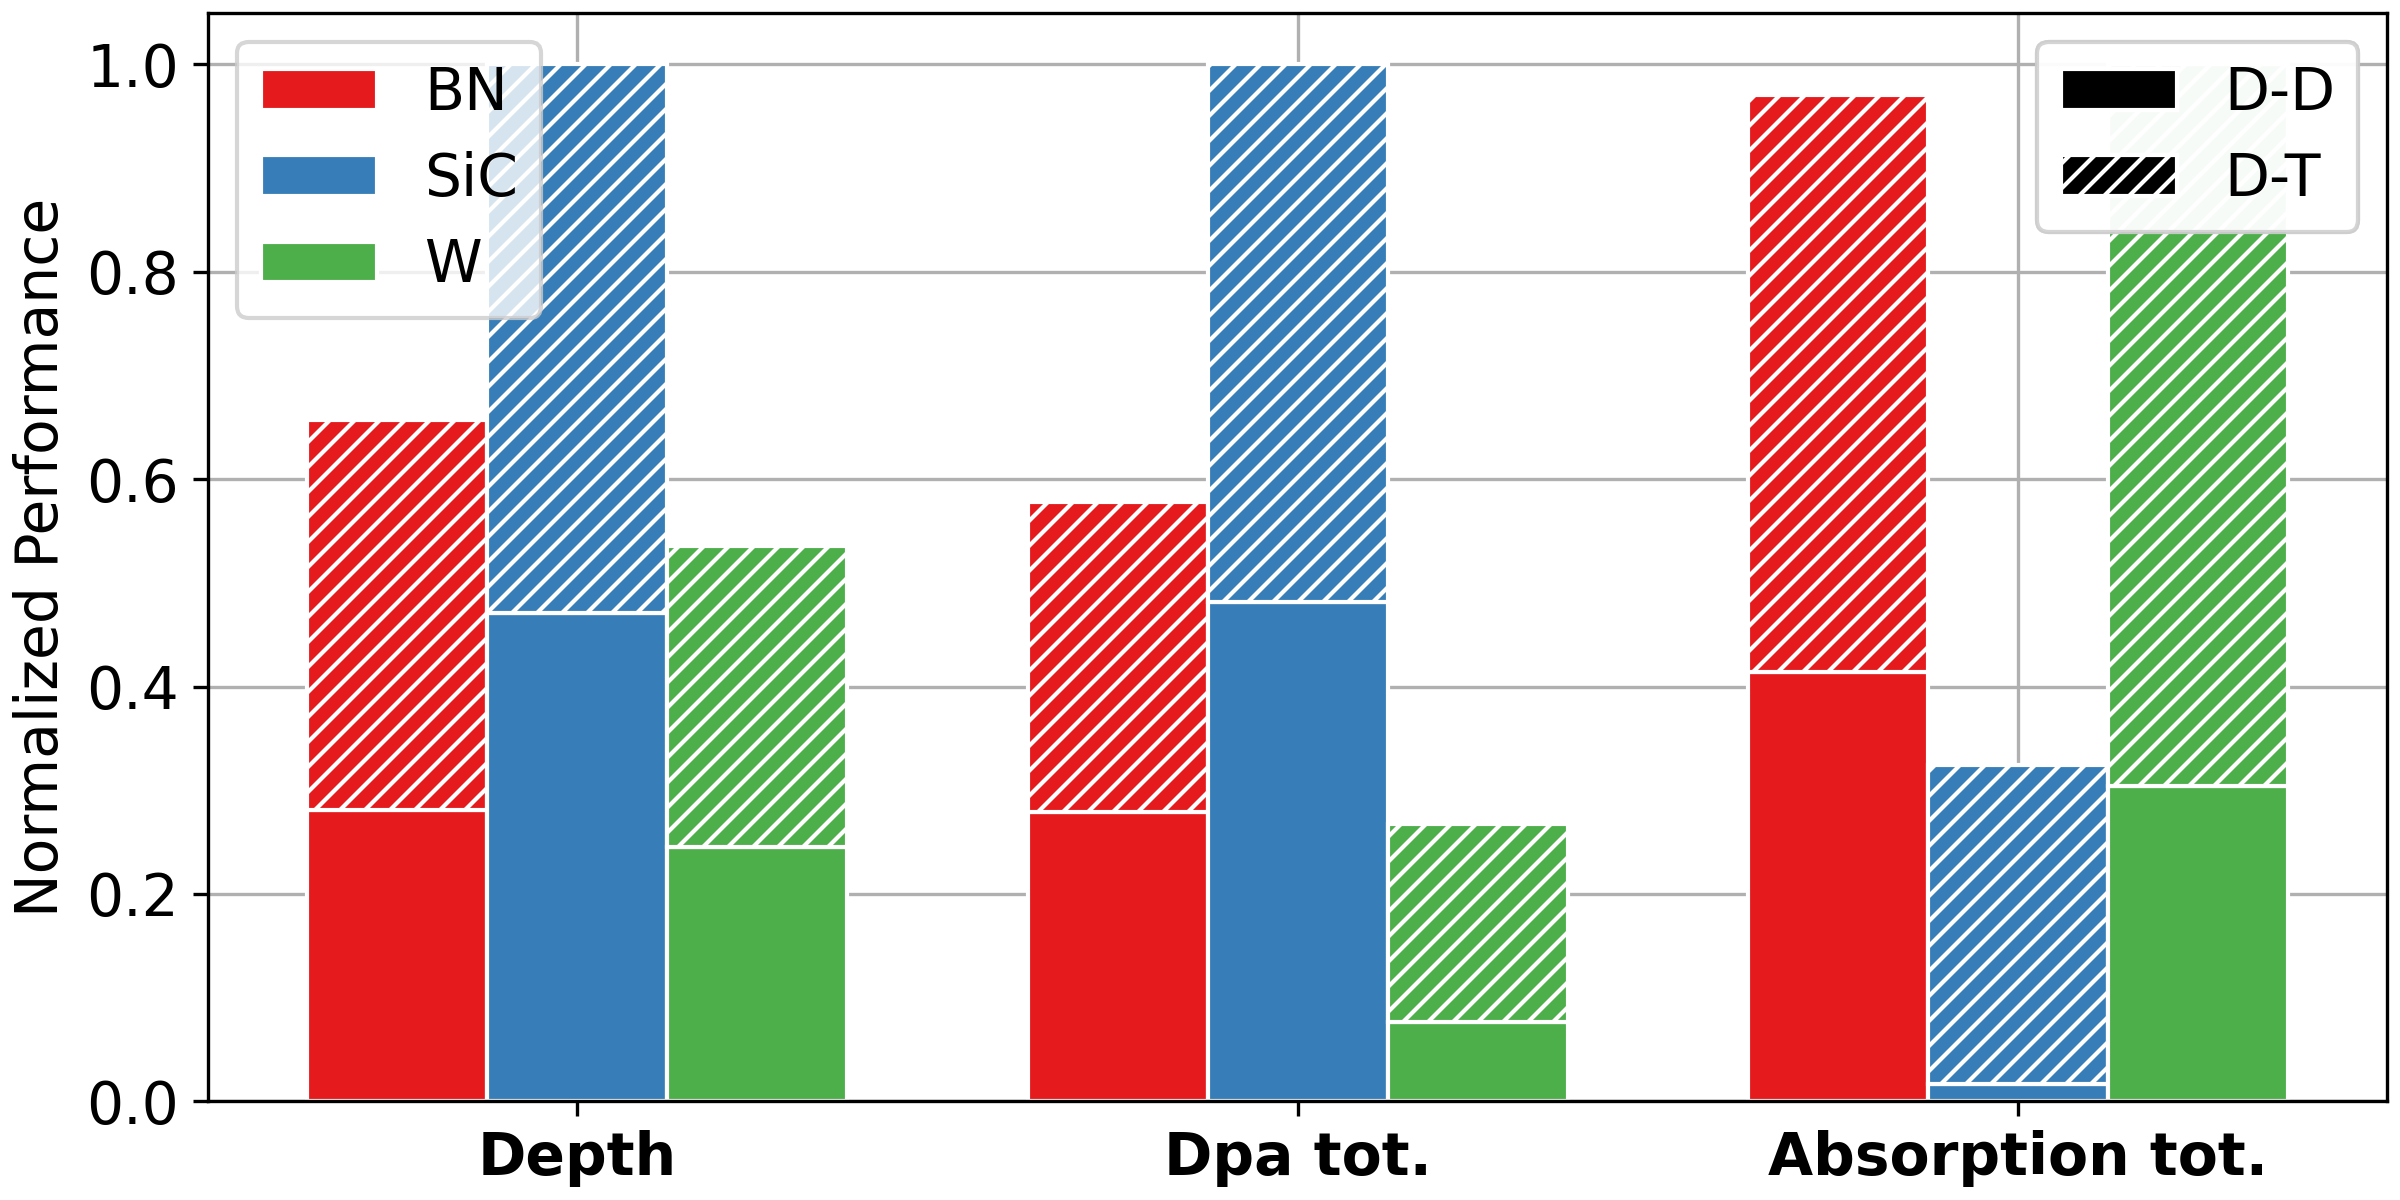
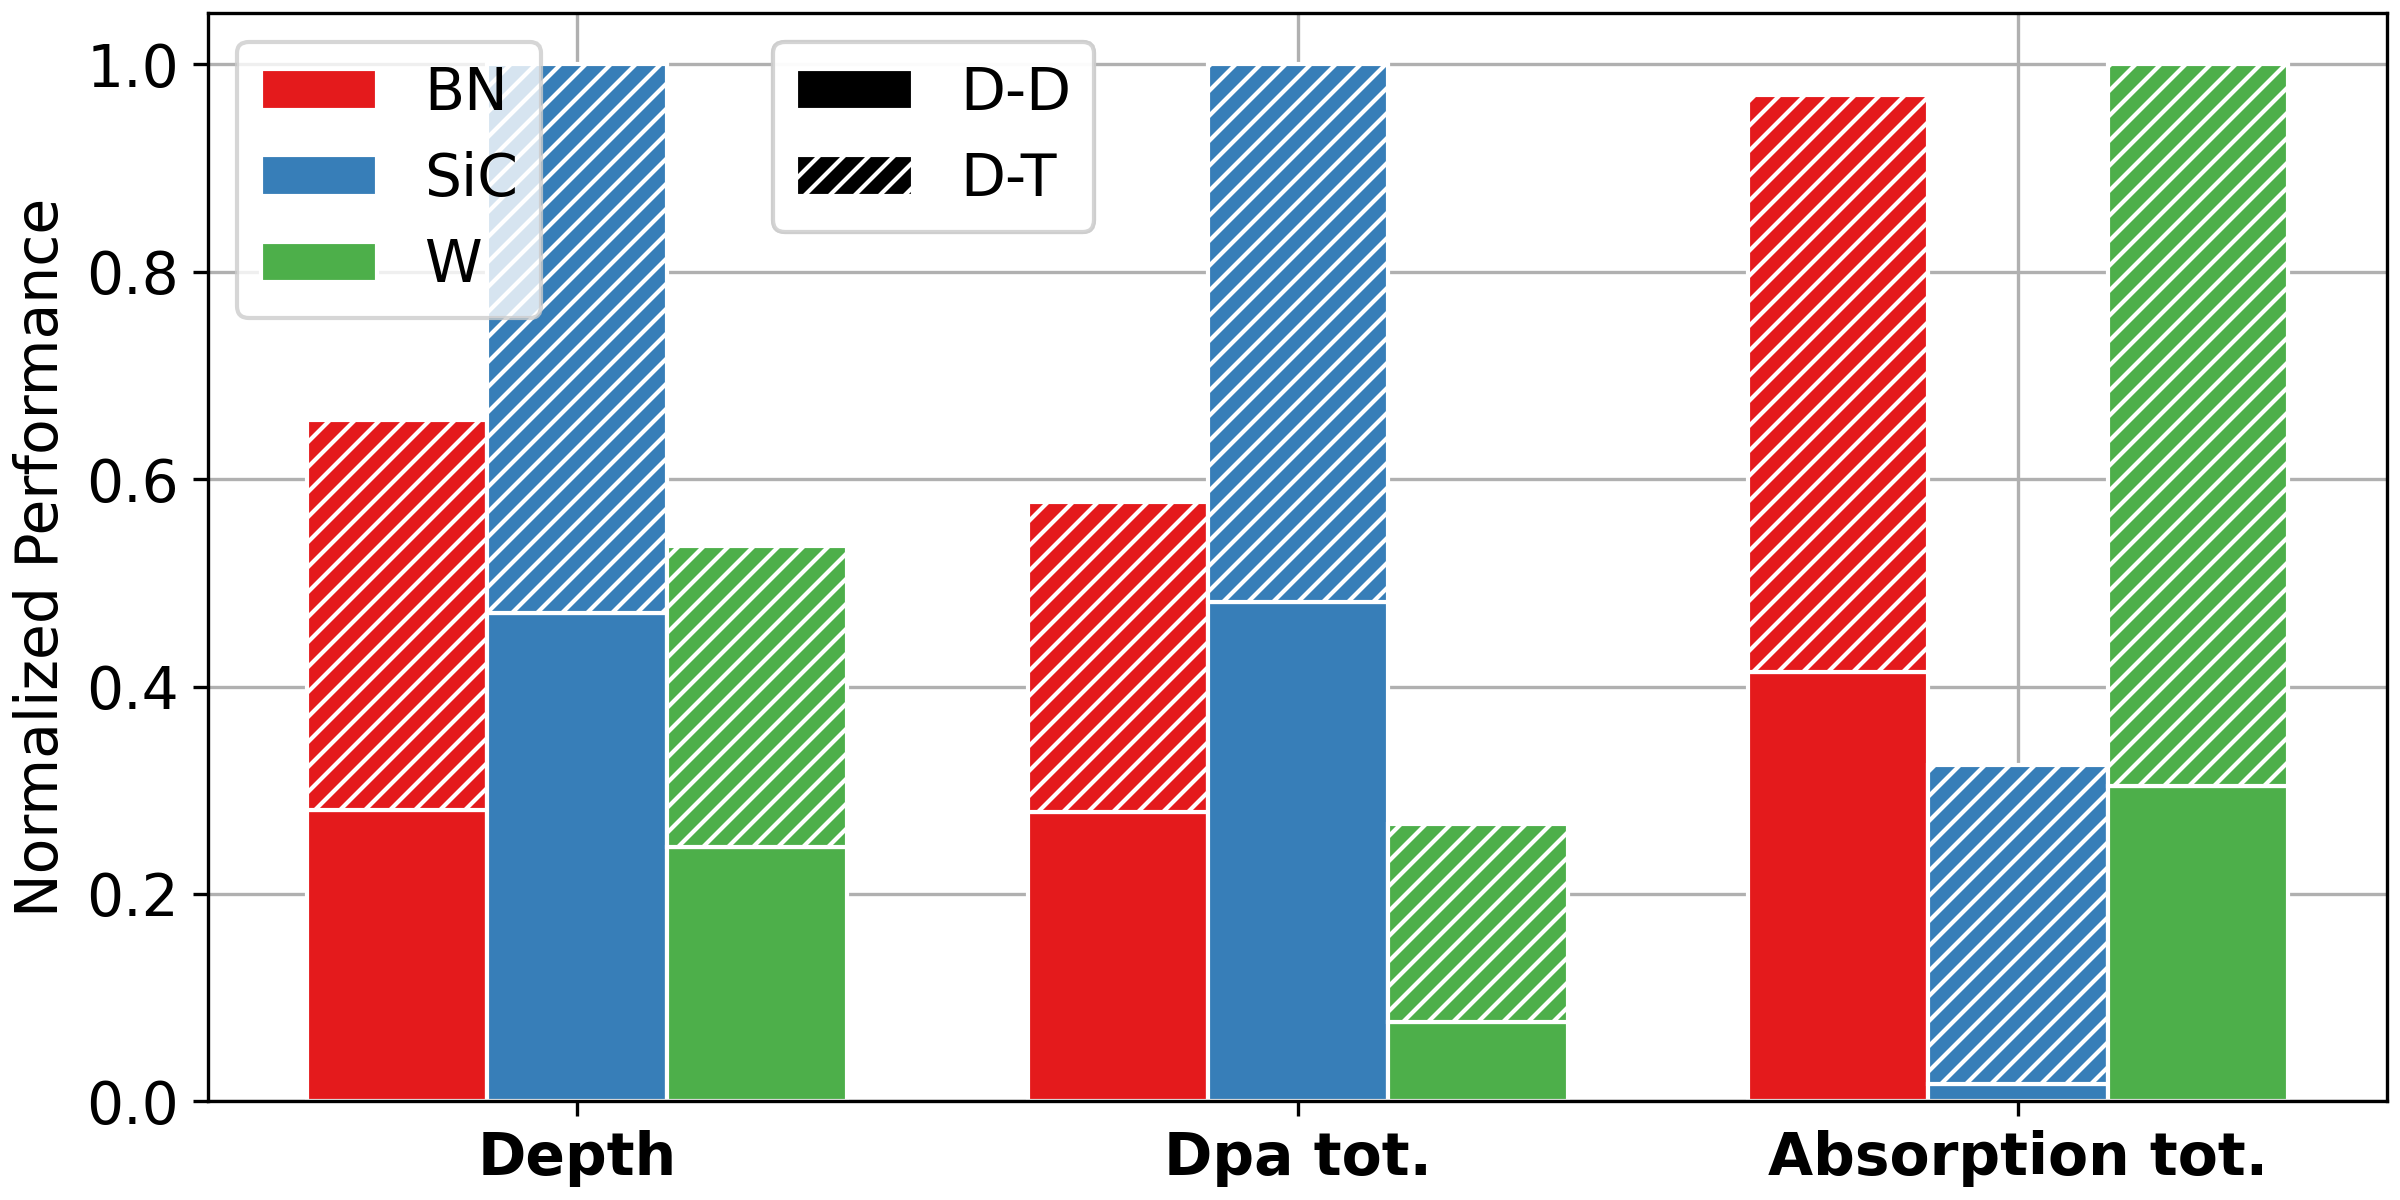
Added factor of 1/2 for like-particles

Changed region(s): [[0.8438, 0.0308, 1.0, 0.2158], [0.3125, 0.0308, 0.4688, 0.0925], [0.3125, 0.1233, 0.4375, 0.2158]]

diff --git a/CMFX/CMFX_source.py b/CMFX/CMFX_source.py
@@ -152,6 +152,7 @@ class CMFX_Source():
             C5 = -2.96400E-6 # 1/keV
             C6 = 0 # 1/keV
             C7 = 0 # 1/keV
+            delta_ij = 1
         elif self.fuel == 'DT':
             # Parameters are taken as the T(d, n)4He reaction fitting parameters from table VII of: https://iopscience.iop.org/article/10.1088/0029-5515/32/4/I07/pdf
             B_G = 34.3827 # keV^(1/2)
@@ -163,6 +164,7 @@ class CMFX_Source():
             C5 = 1.35000e-2 # 1/keV
             C6 = -1.06750e-4 # 1/keV
             C7 = 1.36600e-5 # 1/keV
+            delta_ij = 0
 
         # Eqns 12-14 of above paper
         # Returns <sigma * v> in cm^3 / s
@@ -183,7 +185,7 @@ class CMFX_Source():
                     sigma_v = 0
                 sigma_v_values[i, j] = sigma_v
 
-            return ni_values**2 * sigma_v_values
+            return ni_values**2 / (1 + delta_ij) * sigma_v_values
         
         # Need a function to normalize the strengths from n/cm^3/s to n/s
         # This way we can sum over all the strengths and have them sum to the total strength

diff --git a/material_damage/main.py b/material_damage/main.py
@@ -23,7 +23,7 @@ from plot_style import *
 ### STANDARD EXAMPLE ###
 directory = f'{root}/standard'
 source = MaterialDamageSource(material_name='SiC')
-source.run(directory)
+# source.run(directory)
 # source.plot_flux_map()
 
 ### PARAMETER SWEEP ###
@@ -104,7 +104,7 @@ materials_legend = ax.legend(handles=materials_handles, loc='upper left')
 # Create legend for fuels
 fuel_handles = [Patch(facecolor='black', edgecolor='white', label='D-D'),
                Patch(facecolor='black', hatch='////', edgecolor='white', label='D-T')]
-ax.add_artist(ax.legend(handles=fuel_handles, loc='upper right'))
+ax.add_artist(ax.legend(handles=fuel_handles, loc='upper right', bbox_to_anchor=(0.42, 1.0)))
 ax.add_artist(materials_legend)
 
 # Move grid to background
